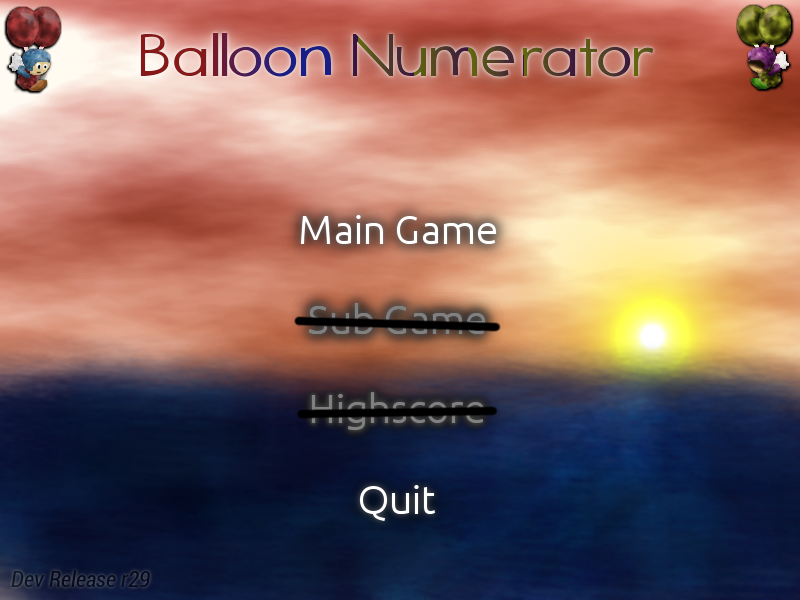
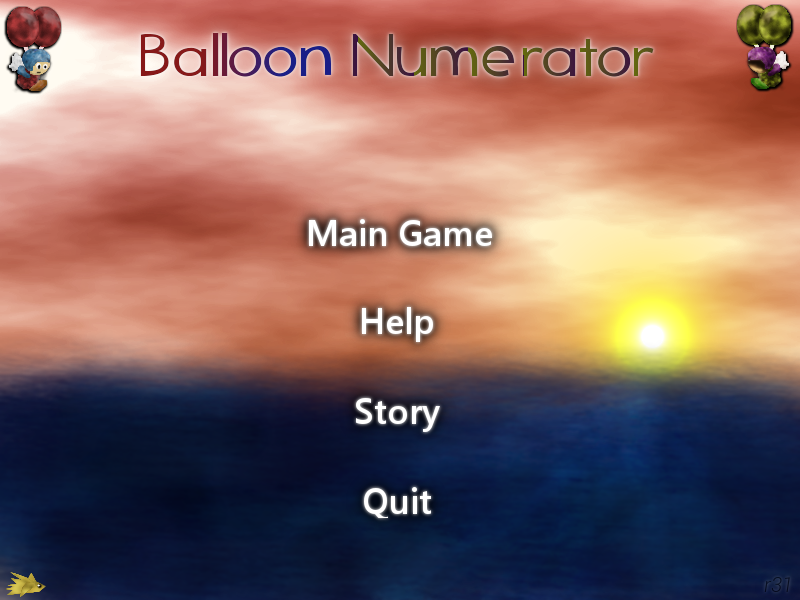
Final(?) version, r31. Bugfixes, polish, added victory screen and help/story popups, etc

diff --git a/main.cpp b/main.cpp
@@ -20,13 +20,16 @@ int main(int argc, char*argv[])
     SDL_Texture *bgTex2 = loadTexture("img/sunsetBackground.png", rend);
 	SDL_Texture *loseLevelTex = loadTexture("img/lose.png", rend);
 	SDL_Texture *nextLevelTex = loadTexture("img/win.png", rend);
+	SDL_Texture *victoryTex = loadTexture("img/victory.png", rend);
+	SDL_Texture *storyTex = loadTexture("img/story.png", rend);
+	SDL_Texture *helpTex = loadTexture("img/help.png", rend);
 	
 	// Event structure for handling input and rendering until closed
 	SDL_Event event;
     
     srand(time(NULL));
 	bool running = true;
-    bool menu = true;
+    bool menu = true, popup = false, loadNextLevel = false;
     
     int collide = 0;
     int enemyCollide = 0;
@@ -36,7 +39,6 @@ int main(int argc, char*argv[])
     SDL_Texture *menuSelect = loadTexture("img/menuSelector.png", rend);
     int menuItem = 1;
     const int menuItemLast = 4;
-	bool loadNextLevel = 0;
     
 	// Create our main game objects
     Balloonist* player = new Balloonist(50, 50, rend);
@@ -78,17 +80,50 @@ int main(int argc, char*argv[])
 							MasterList.activeLevel->resetLevel();
 							MasterList.setLevel(0);
                         }
-                        // Educational level
-                        /*else if (menuItem == 2)
+                        // Help
+                        else if (menuItem == 2)
                         {
-                            menu = false;
-                            currentLevel = 2;
-                        }*/
-                        // Display high score
-                        /*else if (menuItem == 3)
+							renderTexture(helpTex, rend, 0, 0);
+							SDL_RenderPresent(rend);
+							popup = true;
+							while (popup == true)
+							{
+								while (SDL_PollEvent(&event))
+								{
+									if (event.type == SDL_QUIT)
+									{
+										menu = false; running = false; popup = false;
+										MasterList.currentLevel = -3;
+									}
+									if (event.type == SDL_KEYDOWN)
+									{
+										popup = false;
+									}
+								}
+							}
+                        }
+                        // Story
+                        else if (menuItem == 3)
                         {
-                            // high score popup?
-                        }*/
+							renderTexture(storyTex, rend, 0, 0);
+							SDL_RenderPresent(rend);
+							popup = true;
+							while (popup == true)
+							{
+								while (SDL_PollEvent(&event))
+								{
+									if (event.type == SDL_QUIT)
+									{
+										menu = false; running = false; popup = false;
+										MasterList.currentLevel = -3;
+									}
+									if (event.type == SDL_KEYDOWN)
+									{
+										popup = false;
+									}
+								}
+							}
+                        }
                         // Quit game
                         else if (menuItem == 4)
                         {
@@ -220,19 +255,22 @@ int main(int argc, char*argv[])
             SDL_RenderPresent(rend);
             
             // Player - Ground bouncing
-            for (unsigned int j = 0; j < MasterList.groundList.size(); ++j)
-            {
-                collide = 0;
-                collide = checkCollision(player->collisionBox, MasterList.groundList.at(j)->collisionBox);
-                if (collide) {player->bounce(collide);}
-            }
-            // Player - Spiky collisions
-            for (unsigned int k = 0; k < MasterList.spikyList.size(); ++k)
-            {
-                collide = 0;
-                collide = checkCollision(player->collisionBox, MasterList.spikyList.at(k)->collisionBox);
-                if (collide) {player->pop(1);}
-            }
+			if (player->isAlive() == 1)
+			{
+				for (unsigned int j = 0; j < MasterList.groundList.size(); ++j)
+				{
+					collide = 0;
+					collide = checkCollision(player->collisionBox, MasterList.groundList.at(j)->collisionBox);
+					if (collide) {player->bounce(collide);}
+				}
+				// Player - Spiky collisions
+				for (unsigned int k = 0; k < MasterList.spikyList.size(); ++k)
+				{
+					collide = 0;
+					collide = checkCollision(player->collisionBox, MasterList.spikyList.at(k)->collisionBox);
+					if (collide) {player->pop(1);}
+				}
+			}
 
 			// IF SUB LEVEL
 			if (MasterList.educationLevel == 1)
@@ -285,6 +323,12 @@ int main(int argc, char*argv[])
 				MasterList.lastLevel = MasterList.currentLevel;
 				MasterList.setLevel(-1);
 			}
+
+			if (player->isAlive() == -1)
+			{
+				MasterList.lastLevel = MasterList.currentLevel;
+				MasterList.setLevel(-2);
+			}
         }
 
 		// Between level popup/delay
@@ -298,12 +342,34 @@ int main(int argc, char*argv[])
 			if (MasterList.lastLevel + 1 >= MasterList.totalLevels())
 			{
 				MasterList.setLevel(-3);
-				menu = true; // TEMPORARY, return to menu so game doesn't crash when we run out of levels to play
+				popup = true;
+				SDL_RenderClear(rend);
+				renderTexture(victoryTex, rend, 0, 0);
+				SDL_RenderPresent(rend);
+				while (popup == true)
+				{
+					while (SDL_PollEvent(&event))
+					{
+						if (event.type == SDL_QUIT)
+						{
+							menu = false; running = false; popup = false;
+							MasterList.currentLevel = -3;
+						}
+						if (event.type == SDL_KEYDOWN)
+						{
+							popup = false;
+						}
+					}
+				}
+				menu = true; // return to menu so game doesn't crash by trying to load another level
 			}
 			else
 			{
 				MasterList.currentLevel = MasterList.lastLevel;
 				MasterList.setLevel(MasterList.lastLevel + 1);
+				// Resets level if this is second time playing this level
+				MasterList.activeLevel->resetLevel();
+				MasterList.setLevel(MasterList.currentLevel);
 			}
 		}
 
@@ -327,6 +393,8 @@ int main(int argc, char*argv[])
 	SDL_DestroyTexture(bgTex2);
 	SDL_DestroyTexture(nextLevelTex);
 	SDL_DestroyTexture(loseLevelTex);
+	SDL_DestroyTexture(victoryTex);
+	SDL_DestroyTexture(storyTex);
 	SDL_Quit();
 	
 	return 0;

diff --git a/balloonist.cpp b/balloonist.cpp
@@ -111,9 +111,11 @@ namespace PPM
 			y_speed += 0.05;
 		}
 		
+		if (balloons < 1) {alive = 0;} // no balloons = no collision
+
 		// Cap speeds
-		if (x_speed > 4) {x_speed = 4;}
-		else if (x_speed < -4) {x_speed = -4;}
+		if (x_speed > 3) {x_speed = 3;}
+		else if (x_speed < -4) {x_speed = -3;}
 		if (y_speed > 4) {y_speed = 4;}
 		else if (y_speed < -4) {y_speed = -4;}
 		
@@ -127,7 +129,21 @@ namespace PPM
 		
 		// Vertical screen-bounds
 		if (collisionBox.y < 0) {collisionBox.y = 0; y_speed = 0;}
-		else if (collisionBox.y > SCREEN_HEIGHT - collisionBox.h) {collisionBox.y = SCREEN_HEIGHT - collisionBox.h; y_speed = 0;}
+		else if (collisionBox.y > SCREEN_HEIGHT - collisionBox.h)
+		{
+			if (balloons > 0)
+			{
+				collisionBox.y = SCREEN_HEIGHT - collisionBox.h;
+				y_speed = 0;
+			}
+			else
+			{
+				if (collisionBox.y > SCREEN_HEIGHT + (collisionBox.h * 2))
+				{
+					alive = -1;
+				}
+			}
+		}
 		
 		// Draw to screen
 		renderTexture(sprite, r, collisionBox.x, collisionBox.y, facingRight);
@@ -151,5 +167,7 @@ namespace PPM
         y_speed = 0;
 		balloons = 2;
         sprite = sprite2;
+		facingRight = true;
+		alive = 1;
     }
 }

diff --git a/enemy.cpp b/enemy.cpp
@@ -83,8 +83,8 @@ namespace PPM
 		if (balloons < 1) {alive = 0;} // no balloons = no collision
         
         // Cap speeds
-        if (x_speed > 4) {x_speed = 4;}
-        else if (x_speed < -4) {x_speed = -4;}
+        if (x_speed > 3) {x_speed = 3;}
+        else if (x_speed < -3) {x_speed = -3;}
         if (y_speed > 4) {y_speed = 4;}
         else if (y_speed < -4) {y_speed = -4;}
         
